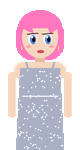
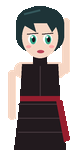
«Сахар»: новая Ника — тёмное каре, чёрный наряд, красная лента

diff --git a/index.html b/index.html
@@ -178,7 +178,7 @@
     background:var(--box); border:1px solid var(--accent); color:var(--accent); font-size:14px; display:none; z-index:5; }
 
   /* Заставка главы */
-  #title { position:absolute; inset:0; background:linear-gradient(90deg,#000e 0%,#000c 45%,#0006 100%),#000 url("img/menu_bg.jpg?v=10280257") center 30%/cover;
+  #title { position:absolute; inset:0; background:linear-gradient(90deg,#000e 0%,#000c 45%,#0006 100%),#000 url("img/menu_bg.jpg?v=10280300") center 30%/cover;
     display:grid; grid-template-columns:minmax(260px, 1fr) minmax(320px, 1.25fr); align-items:center; gap:4%; padding:4% 5%;
     overflow-y:auto; z-index:10; transition:opacity .8s; }
   #title.gone { opacity:0; pointer-events:none; }
@@ -392,7 +392,7 @@
   /* меню на телефоне: фото Бородино целиком сверху, а не обрезанный центр */
   @media (max-aspect-ratio: 1/1) {
     #title { grid-template-columns:1fr; align-items:start; gap:14px; padding:calc(env(safe-area-inset-top) + 16px) 16px calc(env(safe-area-inset-bottom) + 20px);
-      background:linear-gradient(#0003 0%,#000a 26%,#000e 45%),#000 url("img/menu_bg.jpg?v=10280257") center calc(env(safe-area-inset-top)) / 100% auto no-repeat; }
+      background:linear-gradient(#0003 0%,#000a 26%,#000e 45%),#000 url("img/menu_bg.jpg?v=10280300") center calc(env(safe-area-inset-top)) / 100% auto no-repeat; }
     #title .hero { padding-top:34vw; text-align:center; }
     #saveBtns .grid { grid-template-columns:1fr 1fr; }
   }
@@ -434,11 +434,11 @@
 <div id="stage">
   <canvas id="bg" width="320" height="180"></canvas>
   <img id="photoFit" alt="">
-  <img class="sprite" id="gleb" src="img/gleb_px.png?v=10280257" alt="Глеб">
-  <img class="sprite" id="egor" src="img/egor_px.png?v=10280257" alt="Егор">
+  <img class="sprite" id="gleb" src="img/gleb_px.png?v=10280300" alt="Глеб">
+  <img class="sprite" id="egor" src="img/egor_px.png?v=10280300" alt="Егор">
   <img class="sprite" id="npc" alt="">
   <div id="phone"><div class="scr">
-    <div class="hdr"><div class="ava" id="tgava" style="background:url(img/yulia_ava.png?v=10280257) center/cover"></div><div><div class="nm" id="tgnm">Юлия — семинары</div><div class="st" id="tgst">была недавно</div></div></div>
+    <div class="hdr"><div class="ava" id="tgava" style="background:url(img/yulia_ava.png?v=10280300) center/cover"></div><div><div class="nm" id="tgnm">Юлия — семинары</div><div class="st" id="tgst">была недавно</div></div></div>
     <div id="msgs"></div>
   </div></div>
   <div id="place"></div>
@@ -855,7 +855,7 @@ function startDrive() {
 }
 
 // ---------- Локация: воспоминание в «Ровеснике» (фон — та самая аниме-фотка в пикселях) ----------
-const ROV = new Image(); ROV.src = "img/rovesnik_bg.png?v=10280257"; ROV.onload = () => { if (scene && scene.bg === "memory") redraw(); };
+const ROV = new Image(); ROV.src = "img/rovesnik_bg.png?v=10280300"; ROV.onload = () => { if (scene && scene.bg === "memory") redraw(); };
 function drawMemory() {
   const c = $("bg").getContext("2d"), W = c.canvas.width, H = c.canvas.height;
   c.imageSmoothingEnabled = false;
@@ -974,7 +974,7 @@ function drawPhoto() {
   const c = $("bg").getContext("2d"), W = c.canvas.width, H = c.canvas.height, name = scene.photo;
   c.fillStyle = "#120808"; c.fillRect(0, 0, W, H);
   let im = PHOTO[name];
-  if (!im) { im = PHOTO[name] = new Image(); im.onload = () => { if (scene && scene.photo === name) redraw(); }; im.onerror = () => { if (scene && scene.photo === name) { scene.bg = "war"; redraw(); } }; im.src = `img/${name}.jpg?v=10280257`; }
+  if (!im) { im = PHOTO[name] = new Image(); im.onload = () => { if (scene && scene.photo === name) redraw(); }; im.onerror = () => { if (scene && scene.photo === name) { scene.bg = "war"; redraw(); } }; im.src = `img/${name}.jpg?v=10280300`; }
   if (!im.complete || !im.naturalWidth) return;
   c.imageSmoothingEnabled = false;
   const k = Math.max(W / im.width, H / im.height), w = im.width * k, h = im.height * k;
@@ -4818,13 +4818,13 @@ let scene, idx, typing = null;
 // анимация персонажей: три кадра у каждого
 const FRAMES = {}, anim = {};
 for (const n of ["gleb", "egor"]) {
-  FRAMES[n] = { base: `img/${n}_px.png?v=10280257`, talk: `img/${n}_talk.png?v=10280257`, blink: `img/${n}_blink.png?v=10280257` };
+  FRAMES[n] = { base: `img/${n}_px.png?v=10280300`, talk: `img/${n}_talk.png?v=10280300`, blink: `img/${n}_blink.png?v=10280300` };
   Object.values(FRAMES[n]).forEach(src => { new Image().src = src; });
   anim[n] = { talking: false, blinking: false, open: false };
 }
 function frame(n) {
   if (scene && (scene.spartan || scene.spartanAll) && (n === "egor" || scene.spartanAll)) {
-    $(n).src = n === "egor" && scene.spartanAll ? "img/egor_spartan2.png?v=10280257" : `img/${n}_spartan.png?v=10280257`; return;
+    $(n).src = n === "egor" && scene.spartanAll ? "img/egor_spartan2.png?v=10280300" : `img/${n}_spartan.png?v=10280300`; return;
   }
   const a = anim[n], f = FRAMES[n];
   $(n).src = a.blinking ? f.blink : (a.talking && a.open ? f.talk : f.base);
@@ -4853,7 +4853,7 @@ const NPC_IMG = {
   "Именинница": "npc_bday", "Подружка": "npc_friend", "Блондинка": "npc_blonde",
   "Петя": "npc_petya", "Юля": "npc_yulia", "Сергей": "npc_sergey", "Мила": "npc_dancer1", "Ника": "npc_dancer2", "Ева": "npc_dancer3", "Витя": "npc_viktor", "Лилит": "npc_lilith"
 };
-Object.values(NPC_IMG).forEach(n => { new Image().src = `img/${n}.png?v=10280257`; });
+Object.values(NPC_IMG).forEach(n => { new Image().src = `img/${n}.png?v=10280300`; });
 function showNpc(who, file, cls) {
   let n = file || NPC_IMG[who];
   if (!n) return;
@@ -4862,7 +4862,7 @@ function showNpc(who, file, cls) {
   if (scene.spartanAll && who === "Витя") n = "npc_vitya_sp";
   const el = $("npc");
   el.onerror = () => el.classList.remove("on");    // нет картинки — лучше пусто, чем битая иконка
-  el.src = `img/${n}.png?v=10280257`; el.alt = who;
+  el.src = `img/${n}.png?v=10280300`; el.alt = who;
   el.classList.toggle("mid", !!scene.egor);      // Егор в кадре — собеседник встаёт между ними
   el.classList.remove("devil", "possessed");
   if (cls) el.classList.add(cls);
@@ -5167,7 +5167,7 @@ function show(id) {
   $("msgs").innerHTML = "";
   $("tgst").textContent = "была недавно"; $("tgst").className = "st";
   $("tgnm").textContent = "Юлия — семинары"; $("tgava").textContent = "";
-  $("tgava").style.background = "url(img/yulia_ava.png?v=10280257) center/cover";
+  $("tgava").style.background = "url(img/yulia_ava.png?v=10280300) center/cover";
   $("npc").classList.remove("on", "dim");
   $("timer").classList.remove("on");
   $("explore").classList.remove("on");
